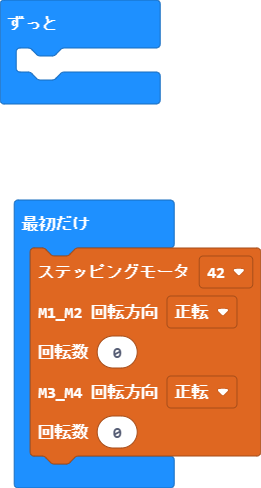
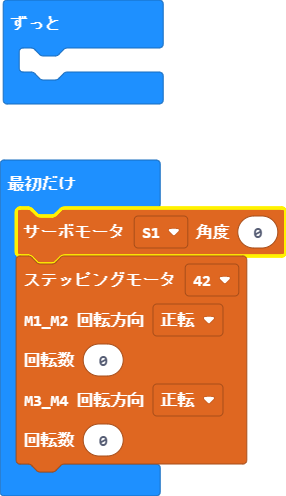
サーボモータを追加

diff --git a/main.ts b/main.ts
@@ -1,3 +1,4 @@
+motor.servo(motor.Servos.S1, 0)
 motor.stepperTurnDual_42(
 motor.Stepper.Ste1,
 motor.Dir.CW,

diff --git a/main.py b/main.py
@@ -1,0 +1,5 @@
+motor.stepperTurnDual_42(motor.Stepper.STE1, motor.Dir.CW, 0, motor.Dir.CW, 0)
+
+def on_forever():
+    pass
+basic.forever(on_forever)
